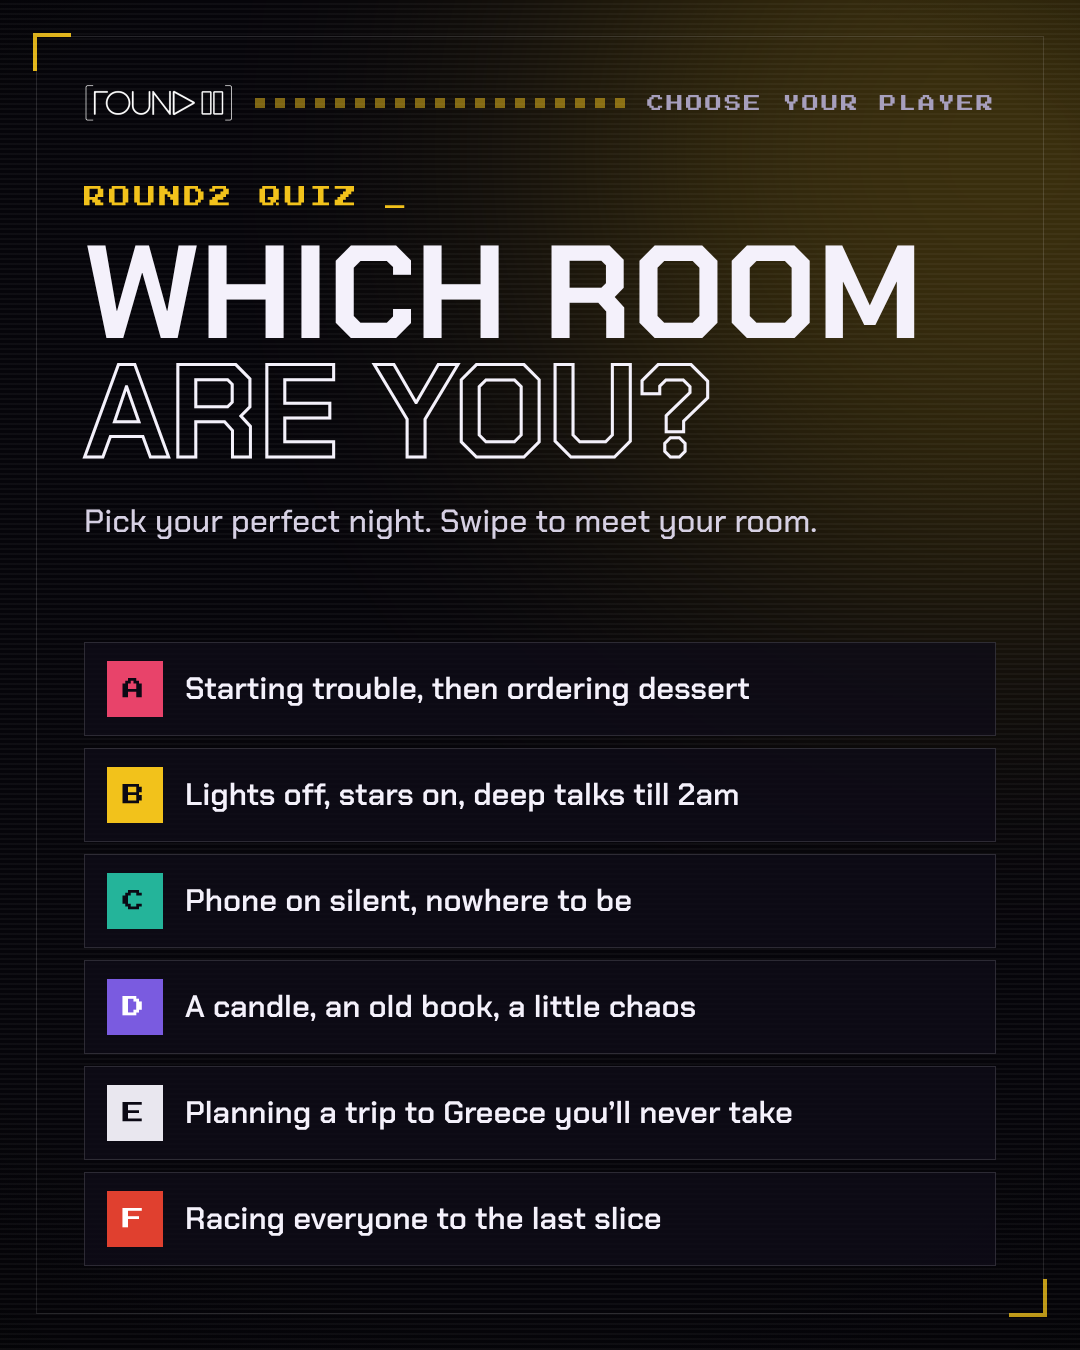
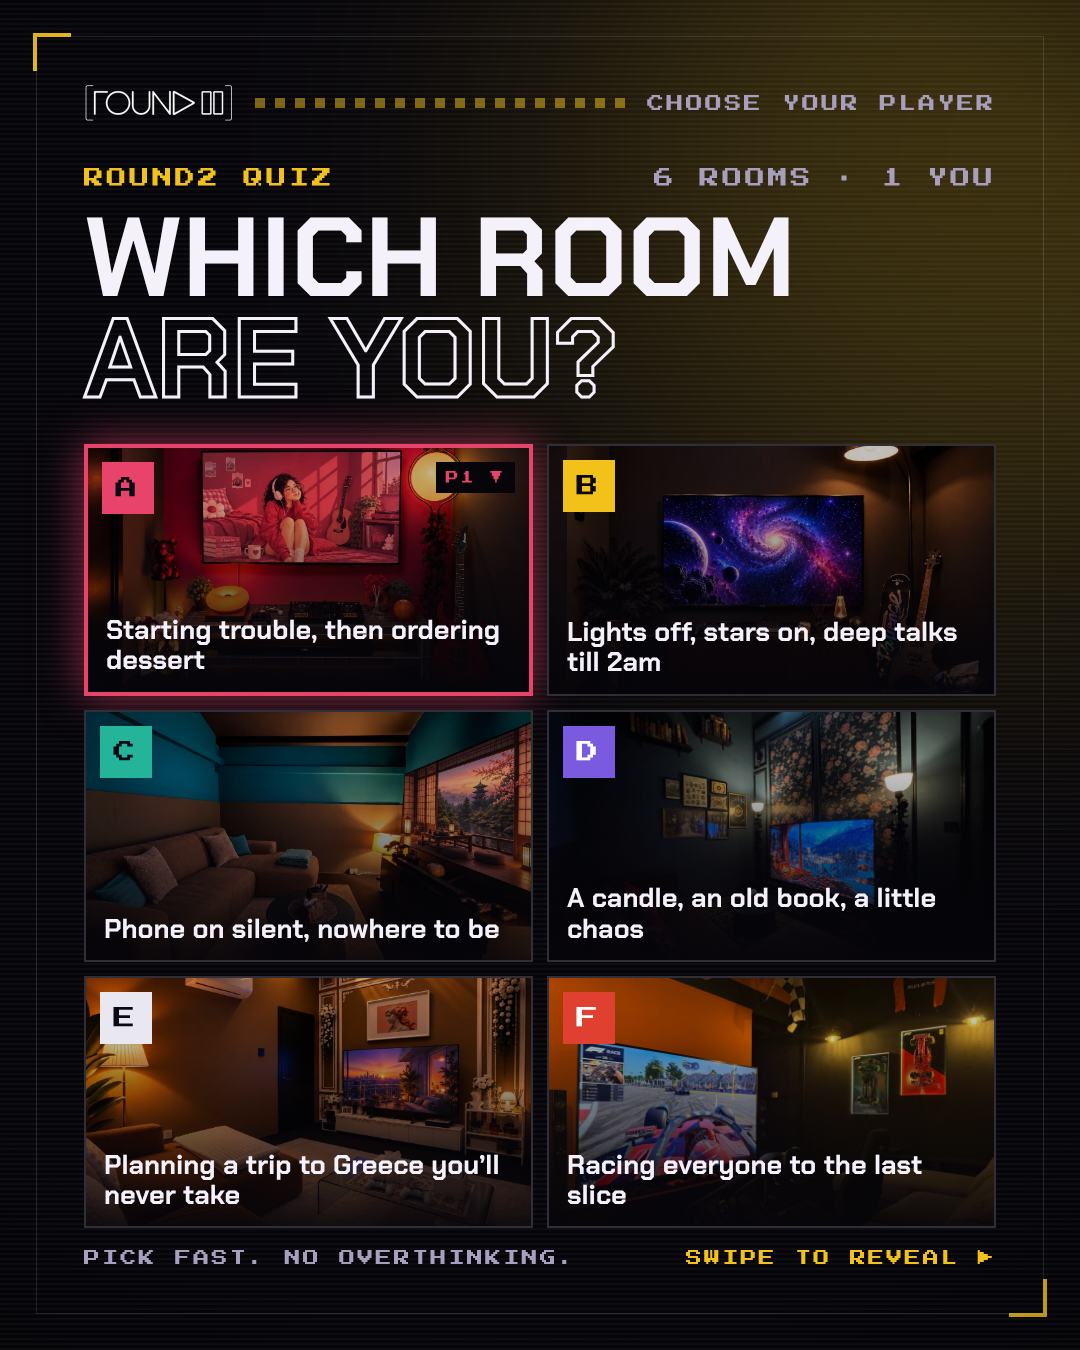
Room quiz: cover as a photo character-select grid
Claude-Session: https://claude.ai/code/session_01PDkwSCLDYKchcH27nujJvW

diff --git a/marketing/ig-room-quiz/index.html b/marketing/ig-room-quiz/index.html
@@ -34,16 +34,21 @@ body.render .deck{padding:0;gap:0}
 .blink{animation:b 1.1s steps(2,start) infinite}@keyframes b{to{visibility:hidden}}
 body.render .blink{animation:none}
 
-/* cover */
-.cv-k{margin-top:64px;font-size:22px;color:var(--accent)}
-.cv-t{margin:26px 0 0;font-weight:700;font-size:132px;line-height:.9;text-transform:uppercase}
-.cv-t span{display:block;color:transparent;-webkit-text-stroke:3px var(--ink)}
-.cv-s{margin-top:28px;font-size:32px;line-height:1.35;color:var(--soft)}
-.opts{margin-top:auto;display:grid;gap:12px}
-.opt{display:flex;align-items:center;gap:22px;padding:18px 22px;border:1px solid var(--line);background:rgba(14,11,23,.78)}
-.opt .k{width:56px;height:56px;flex:none;display:flex;align-items:center;justify-content:center;font-size:22px;background:var(--oc);color:var(--ok)}
-.opt .q{font-size:31px;font-weight:600;line-height:1.15}
-
+/* cover – character select */
+.cv-k{margin-top:46px;display:flex;justify-content:space-between;font-size:20px;color:var(--accent)}
+.cv-k span:last-child{color:var(--mute)}
+.cv-t{margin:20px 0 0;font-weight:700;font-size:112px;line-height:.9;text-transform:uppercase}
+.cv-t span{color:transparent;-webkit-text-stroke:3px var(--ink)}
+.grid{margin-top:34px;flex:1;display:grid;grid-template-columns:1fr 1fr;grid-template-rows:repeat(3,1fr);gap:14px}
+.tile{position:relative;overflow:hidden;border:2px solid rgba(244,241,251,.16);background:#0b0914}
+.tile img{position:absolute;inset:0;width:100%;height:100%;object-fit:cover;filter:saturate(1.1) brightness(.8)}
+.tile::after{content:"";position:absolute;inset:0;background:linear-gradient(180deg,rgba(6,5,10,.05) 25%,rgba(6,5,10,.92) 100%)}
+.tile .k{position:absolute;left:14px;top:14px;z-index:2;width:52px;height:52px;display:flex;align-items:center;justify-content:center;font-size:22px;background:var(--oc);color:var(--ok)}
+.tile .q{position:absolute;left:18px;right:18px;bottom:16px;z-index:2;font-size:27px;font-weight:700;line-height:1.12}
+.tile.on{border:4px solid var(--oc);box-shadow:0 0 40px color-mix(in srgb,var(--oc) 60%,transparent)}
+.tile .p1{position:absolute;right:14px;top:14px;z-index:2;padding:9px 10px;font-size:13px;background:#06050a;color:var(--oc)}
+.cv-f{margin-top:22px;display:flex;justify-content:space-between;font-size:16px;color:var(--mute)}
+.cv-f b{font-weight:400;color:var(--accent)}
 /* room card */
 .rk{margin-top:52px;display:flex;justify-content:space-between;align-items:center}
 .rk .l{font-size:18px;color:var(--mute)}
@@ -143,13 +148,16 @@ const frame = (c, ink, inner, g='left:-300px;top:-260px') =>
 const topBar = t => `<div class="top px"><img src="${LOGO}" alt="Round2"><div class="dash"></div><span>${esc(t)}</span></div>`;
 
 function cover(){
-  const opts = QUIZ.map(q => { const r = ROOMS[q.room];
-    return `<div class="opt" style="--oc:${r.c};--ok:${r.ink}"><span class="k px">${q.k}</span><span class="q">${esc(q.night)}</span></div>`; }).join('');
+  const tiles = QUIZ.map((q, i) => { const r = ROOMS[q.room];
+    return `<div class="tile${i===0?' on':''}" style="--oc:${r.c};--ok:${r.ink}">
+      <img src="photos/${q.room.toLowerCase()}.jpg" alt="" onerror="this.remove()">
+      <span class="k px">${q.k}</span>${i===0?'<span class="p1 px blink">P1 ▼</span>':''}
+      <span class="q">${esc(q.night)}</span></div>`; }).join('');
   return frame('#F2C21B','#0b0914', `${topBar('Choose your player')}
-    <div class="cv-k px">Round2 quiz <span class="blink">_</span></div>
-    <h1 class="cv-t">Which room<span>are you?</span></h1>
-    <div class="cv-s">Pick your perfect night. Swipe to meet your room.</div>
-    <div class="opts">${opts}</div>`, 'right:-380px;top:-300px');
+    <div class="cv-k px"><span>Round2 quiz</span><span>6 rooms · 1 you</span></div>
+    <h1 class="cv-t">Which room<br><span>are you?</span></h1>
+    <div class="grid">${tiles}</div>
+    <div class="cv-f px"><span>Pick fast. No overthinking.</span><b>Swipe to reveal <span class="blink">▶</span></b></div>`, 'right:-380px;top:-300px');
 }
 function card(q, i){
   const r = ROOMS[q.room];
